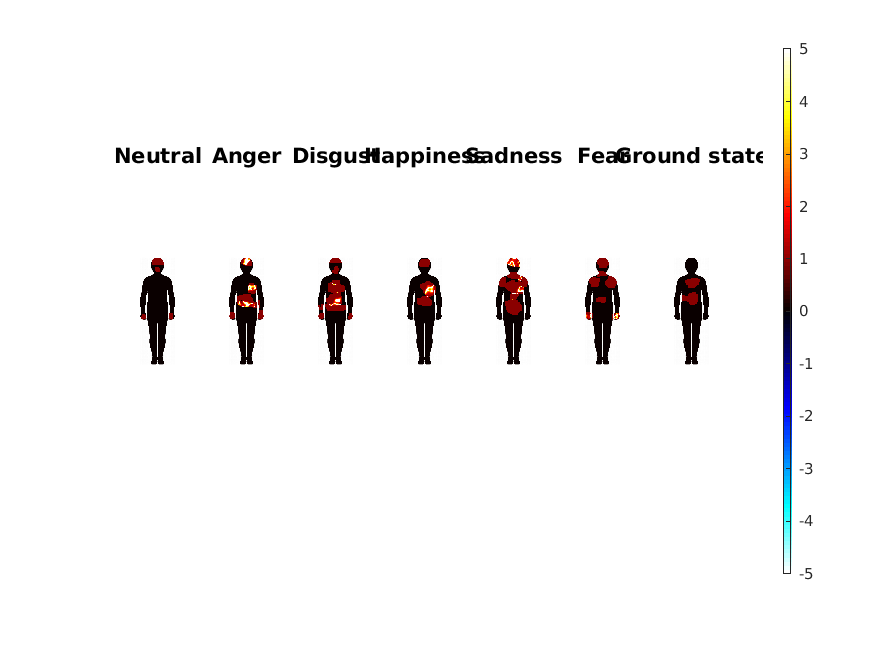
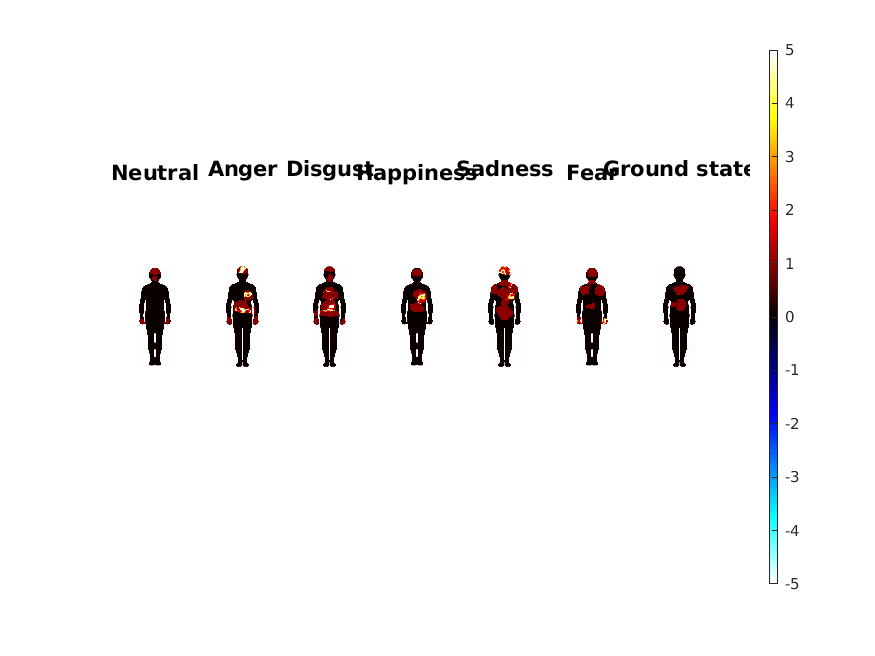
Create function calc_t_values_per_subject and FDR

diff --git a/calc_t_values_per_subject.m b/calc_t_values_per_subject.m
@@ -1,0 +1,42 @@
+function calc_t_values_per_subject(basepath)
+
+if nargin < 1
+    basepath = './output/stimuli_files/';
+end
+
+% Prepare needed variables
+mask=imread('images/mask.png');
+in_mask=find(mask>128); % list of pixels inside the mask
+mask_pixel_count = length(in_mask);
+
+all_stimuli = dir([basepath '*reize.mat']); % preprocessed files, obtained by running embody_demo.m
+
+subject_count = length(all_stimuli);
+emotion_count = 7; % neutral, anger, digust, happy, sadness, fear, ground
+
+all_stimuli_data = zeros(mask_pixel_count, subject_count, emotion_count);
+t_data = zeros(mask_pixel_count, emotion_count);
+
+% Calculate t stats per subject and per emotion
+for subject = 1:subject_count
+    load([basepath all_stimuli(subject).name], 'reize');
+    % reshape 3D matrix intro 2D matrix ( pixels X conditions )
+    temp = reshape(reize,[],emotion_count);
+    all_stimuli_data(:, subject, :) = temp(in_mask, :);
+    for emotion = 1:emotion_count
+        [h, ~, ~, stats] = ttest(all_stimuli_data(:,subject,emotion)');
+        t_data(:, emotion) = stats.tstat;
+        all_t_data = t_data(:);
+        all_t_data(~isfinite(all_t_data)) = [];   % getting rid of 
+        % anomalies in case of low number of subjects (ie no variance)
+        
+        % Apply FDR
+        df=subject_count - 1;    % degrees of freedom
+        P        = 1-cdf('T',all_t_data,df);  % p values
+        [pID, pN] = FDR(P,0.05);             % BH FDR
+        tID      = icdf('T',1-pID,df);      % T threshold, indep or pos. correl.
+        tN       = icdf('T',1-pN,df) ;      % T threshold, no correl. assumptions
+    end
+end
+
+end

diff --git a/helpers/FDR.m b/helpers/FDR.m
@@ -1,0 +1,22 @@
+function [pID,pN] = FDR(p,q)
+% FORMAT [pID,pN] = FDR(p,q)
+% 
+% p   - vector of p-values
+% q   - False Discovery Rate level
+%
+% pID - p-value threshold based on independence or positive dependence
+% pN  - Nonparametric p-value threshold
+%______________________________________________________________________________
+% $Id: FDR.m,v 1.1 2009/10/20 09:04:30 nichols Exp $
+
+
+p = p(isfinite(p));  % Toss NaN's
+p = sort(p(:));
+V = length(p);
+I = (1:V)';
+
+cVID = 1;
+cVN = sum(1./(1:V));
+
+pID = p(max(find(p<=I/V*q/cVID)));
+pN = p(max(find(p<=I/V*q/cVN)));

diff --git a/calc_embody_t_values.m b/calc_embody_t_values.m
@@ -4,6 +4,7 @@ if nargin < 1
     basepath = './output/stimuli_files/';
 end
 
+% Prepare needed variables
 mask=imread('images/mask.png');
 in_mask=find(mask>128); % list of pixels inside the mask
 mask_pixel_count = length(in_mask);
